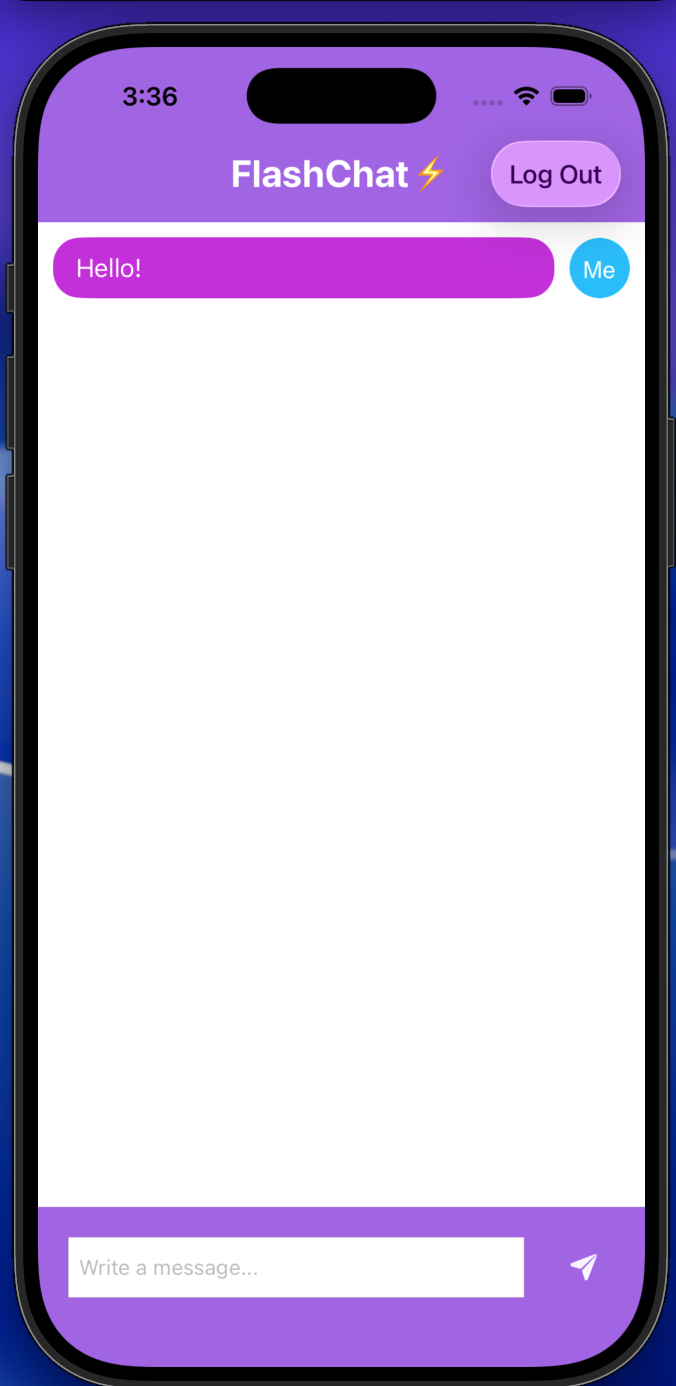
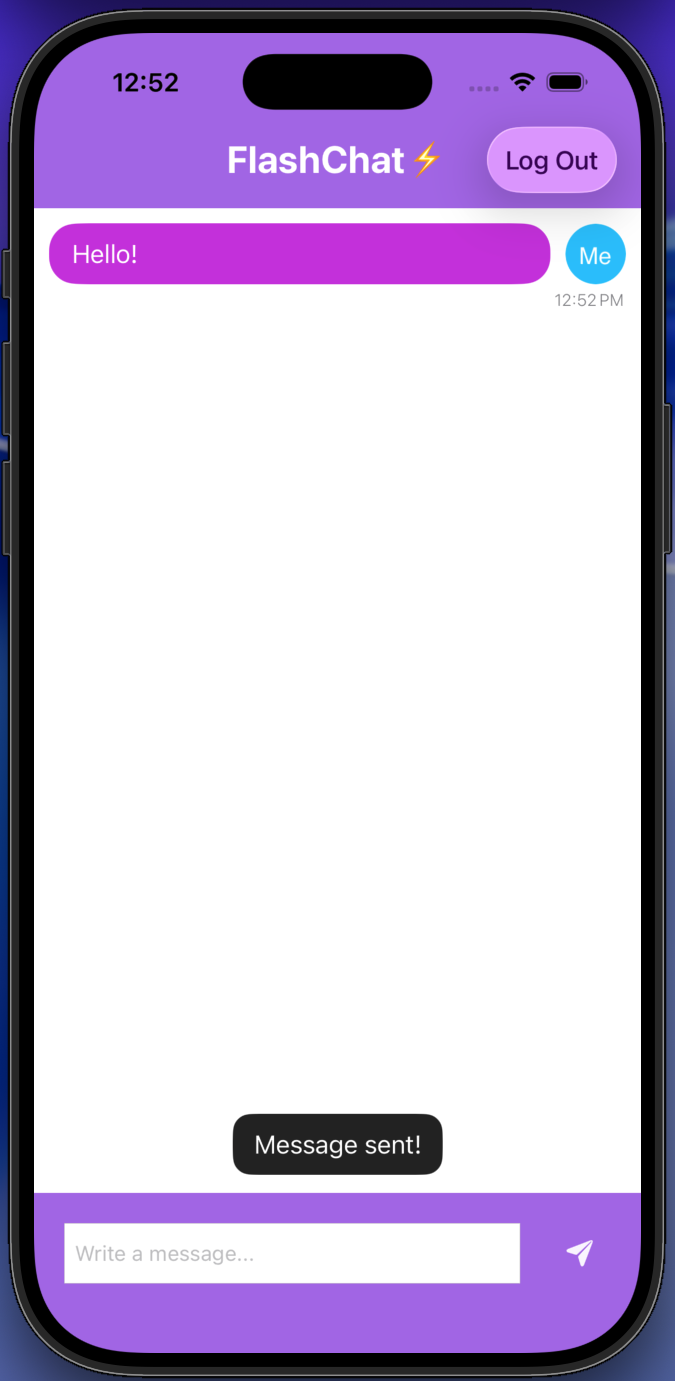
Updated README.md 🔥

Changed region(s): [[0.0, 0.0, 1.0, 1.0], [0.84, 0.903, 0.9022, 0.9341]]

diff --git a/README.md b/README.md
@@ -9,13 +9,16 @@ This project demonstrates clean architecture, real-time data syncing using **Fir
 ### 🔐 User Authentication
 - Register new users with email & password  
 - Secure login using Firebase Authentication  
-- Automatic session handling  
+- Automatic session handling 
+- Input validation with user-friendly error alerts 
 
 ### 💬 Real-Time Messaging
 - Messages sync instantly using **Firestore Snapshot Listeners**
 - Messages auto-sort by timestamp  
 - Smooth autoscroll to latest messagea
-- Timestamps displayed on each message with sender-based alignment  
+- Timestamps displayed on each message with sender-based alignment 
+- Toast notifications for message status
+- Empty message validation
 
 ### 👤 Sender & Receiver UI
 - Custom `UITableViewCell` showing:
@@ -28,7 +31,13 @@ This project demonstrates clean architecture, real-time data syncing using **Fir
 - Polished UIKit interface  
 - GhostTypewriter animation on welcome screen  
 - Adaptive keyboard-safe input field (using `keyboardLayoutGuide`)  
-- Fully autolayout-driven design  
+- Fully autolayout-driven design 
+
+### 🔔 Toast Notifications
+- Message sent confirmation
+- Empty message validation
+- Login error feedback
+- Custom animated toast UI
 
 ### 📦 Swift Package Manager (SPM)
 All external libraries installed via SPM:
@@ -39,7 +48,6 @@ All external libraries installed via SPM:
 ---
 
 ## 🚀 Screenshots
-
 ### **Landing & Registration**
 | Landing | Register |
 |--------|----------|
@@ -51,6 +59,17 @@ All external libraries installed via SPM:
 | Log In |
 |--------|
 | <img src="Screenshots/LogIn.png" width="250"/> |
+
+---
+
+### **Toast Notifications & Validation**
+| Empty Message | Message Sent |
+|---------------|--------------|
+| <img src="Screenshots/EmptyMessage.png" width="250"/> | <img src="Screenshots/SentMessage.png" width="250"/> |
+
+| Missing Credentials | Invalid Login |
+|---------------------|---------------|
+| <img src="Screenshots/EmptyUserPassword.png" width="250"/> | <img src="Screenshots/InvalidEmailOrPassword.png" width="250"/> |
 
 ---
 
